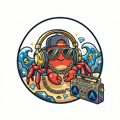
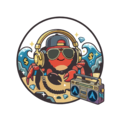
refactor: enhance image rendering with rounded corners in UI components

Changed region(s): [[0.125, 0.125, 0.875, 0.875], [0.625, 0.275, 0.65, 0.3]]

diff --git a/gpui-playground/src/ui/shell/left_panel.rs b/gpui-playground/src/ui/shell/left_panel.rs
@@ -2,7 +2,7 @@ use gpui::*;
 use gpui::StatefulInteractiveElement;
 use gpui::prelude::*;
 
-use crate::ui::elements::mono_icon;
+use crate::ui::elements::{mono_icon, rounded_image};
 use crate::ui::theme::{
     ACCENT, ACCENT_ALT, ASSET_ICON_ACTION_ADD, ASSET_ICON_ACTION_MUTE, ASSET_ICON_ACTION_UNMUTE,
     ASSET_ICON_NAV_DISCOVER, ASSET_ICON_NAV_SEARCH, ASSET_ICON_NAV_SETTINGS, ASSET_ICON_STATUS_ONLINE,
@@ -53,7 +53,7 @@ fn build_guild_rail(shell: &CrabCordShell, cx: &mut Context<CrabCordShell>) -> i
                 .items_center()
                 .gap_2()
                 .px_2()
-                .child(img(guild.icon_png).w(px(36.0)).h(px(36.0)))
+                .child(rounded_image(guild.icon_png, 36.0))
                 .child(
                     div()
                         .text_sm()
@@ -168,7 +168,7 @@ fn build_workspace_panel(shell: &CrabCordShell, cx: &mut Context<CrabCordShell>)
                 .child(
                     div()
                         .relative()
-                        .child(img(dm.avatar_png).w(px(28.0)).h(px(28.0)))
+                        .child(rounded_image(dm.avatar_png, 28.0))
                         .child(
                             div()
                                 .absolute()
@@ -336,7 +336,7 @@ fn build_workspace_panel(shell: &CrabCordShell, cx: &mut Context<CrabCordShell>)
                 .flex()
                 .items_center()
                 .gap_2()
-                .child(img("ui/avatars/avatar-crab-6.png").w(px(30.0)).h(px(30.0)))
+                .child(rounded_image("ui/avatars/avatar-crab-6.png", 30.0))
                 .child(
                     div()
                         .w_full()

diff --git a/gpui-playground/src/ui/elements.rs b/gpui-playground/src/ui/elements.rs
@@ -3,7 +3,21 @@ use gpui::*;
 use super::theme::{ALL_PNG_ASSETS, PANEL_ACTIVE_BG};
 
 pub(crate) fn mono_icon(path: &'static str, size: f32, _color: u32) -> impl IntoElement {
-    img(path).w(px(size)).h(px(size))
+    div()
+        .w(px(size))
+        .h(px(size))
+        .rounded_sm()
+        .overflow_hidden()
+        .child(img(path).w_full().h_full())
+}
+
+pub(crate) fn rounded_image(path: &'static str, size: f32) -> impl IntoElement {
+    div()
+        .w(px(size))
+        .h(px(size))
+        .rounded_md()
+        .overflow_hidden()
+        .child(img(path).w_full().h_full())
 }
 
 pub(crate) fn build_asset_gallery() -> impl IntoElement {
@@ -55,11 +69,19 @@ pub(crate) fn build_asset_gallery() -> impl IntoElement {
                         .w_full()
                         .h_full()
                         .rounded_sm()
+                        .overflow_hidden()
                         .bg(rgb(preview_bg))
                         .flex()
                         .items_center()
                         .justify_center()
-                        .child(img(path).w(px(icon_w)).h(px(icon_h))),
+                        .child(
+                            div()
+                                .w(px(icon_w))
+                                .h(px(icon_h))
+                                .rounded_sm()
+                                .overflow_hidden()
+                                .child(img(path).w_full().h_full()),
+                        ),
                 ),
         );
     }

diff --git a/gpui-playground/src/ui/shell/right_panel.rs b/gpui-playground/src/ui/shell/right_panel.rs
@@ -2,7 +2,7 @@ use gpui::*;
 use gpui::StatefulInteractiveElement;
 use gpui::prelude::*;
 
-use crate::ui::elements::{build_asset_gallery, mono_icon};
+use crate::ui::elements::{build_asset_gallery, mono_icon, rounded_image};
 use crate::ui::theme::{
     ACCENT, ACCENT_SOFT, ALL_PNG_ASSETS, ASSET_ICON_ACTION_INVITE, ASSET_ICON_NAV_DISCOVER, MEMBERS_BG,
     PANEL_ACTIVE_BG, PANEL_ALT_BG, SUCCESS, TEXT_MUTED, TEXT_PRIMARY,
@@ -84,7 +84,7 @@ pub(super) fn build_right_panel(shell: &CrabCordShell, cx: &mut Context<CrabCord
                         .child(
                             div()
                                 .relative()
-                                .child(img(member.avatar_png).w(px(22.0)).h(px(22.0)))
+                                .child(rounded_image(member.avatar_png, 22.0))
                                 .child(
                                     div()
                                         .absolute()

diff --git a/gpui-playground/src/ui/shell/chat_panel.rs b/gpui-playground/src/ui/shell/chat_panel.rs
@@ -2,7 +2,7 @@ use gpui::*;
 use gpui::StatefulInteractiveElement;
 use gpui::prelude::*;
 
-use crate::ui::elements::mono_icon;
+use crate::ui::elements::{mono_icon, rounded_image};
 use crate::ui::theme::{
     ACCENT, ACCENT_SOFT, ASSET_ICON_ACTION_ADD, ASSET_ICON_ACTION_SEND, ASSET_ICON_CHANNEL_TEXT,
     ASSET_ICON_NAV_SEARCH, CHAT_BG, INPUT_BG, PANEL_ACTIVE_BG, PANEL_ALT_BG, TEXT_MUTED, TEXT_PRIMARY,
@@ -93,7 +93,7 @@ fn build_chat_timeline(shell: &CrabCordShell) -> impl IntoElement {
                 .py_1()
                 .flex()
                 .gap_3()
-                .child(img(message.avatar_png).w(px(38.0)).h(px(38.0)))
+                .child(rounded_image(message.avatar_png, 38.0))
                 .child(
                     div()
                         .w_full()
